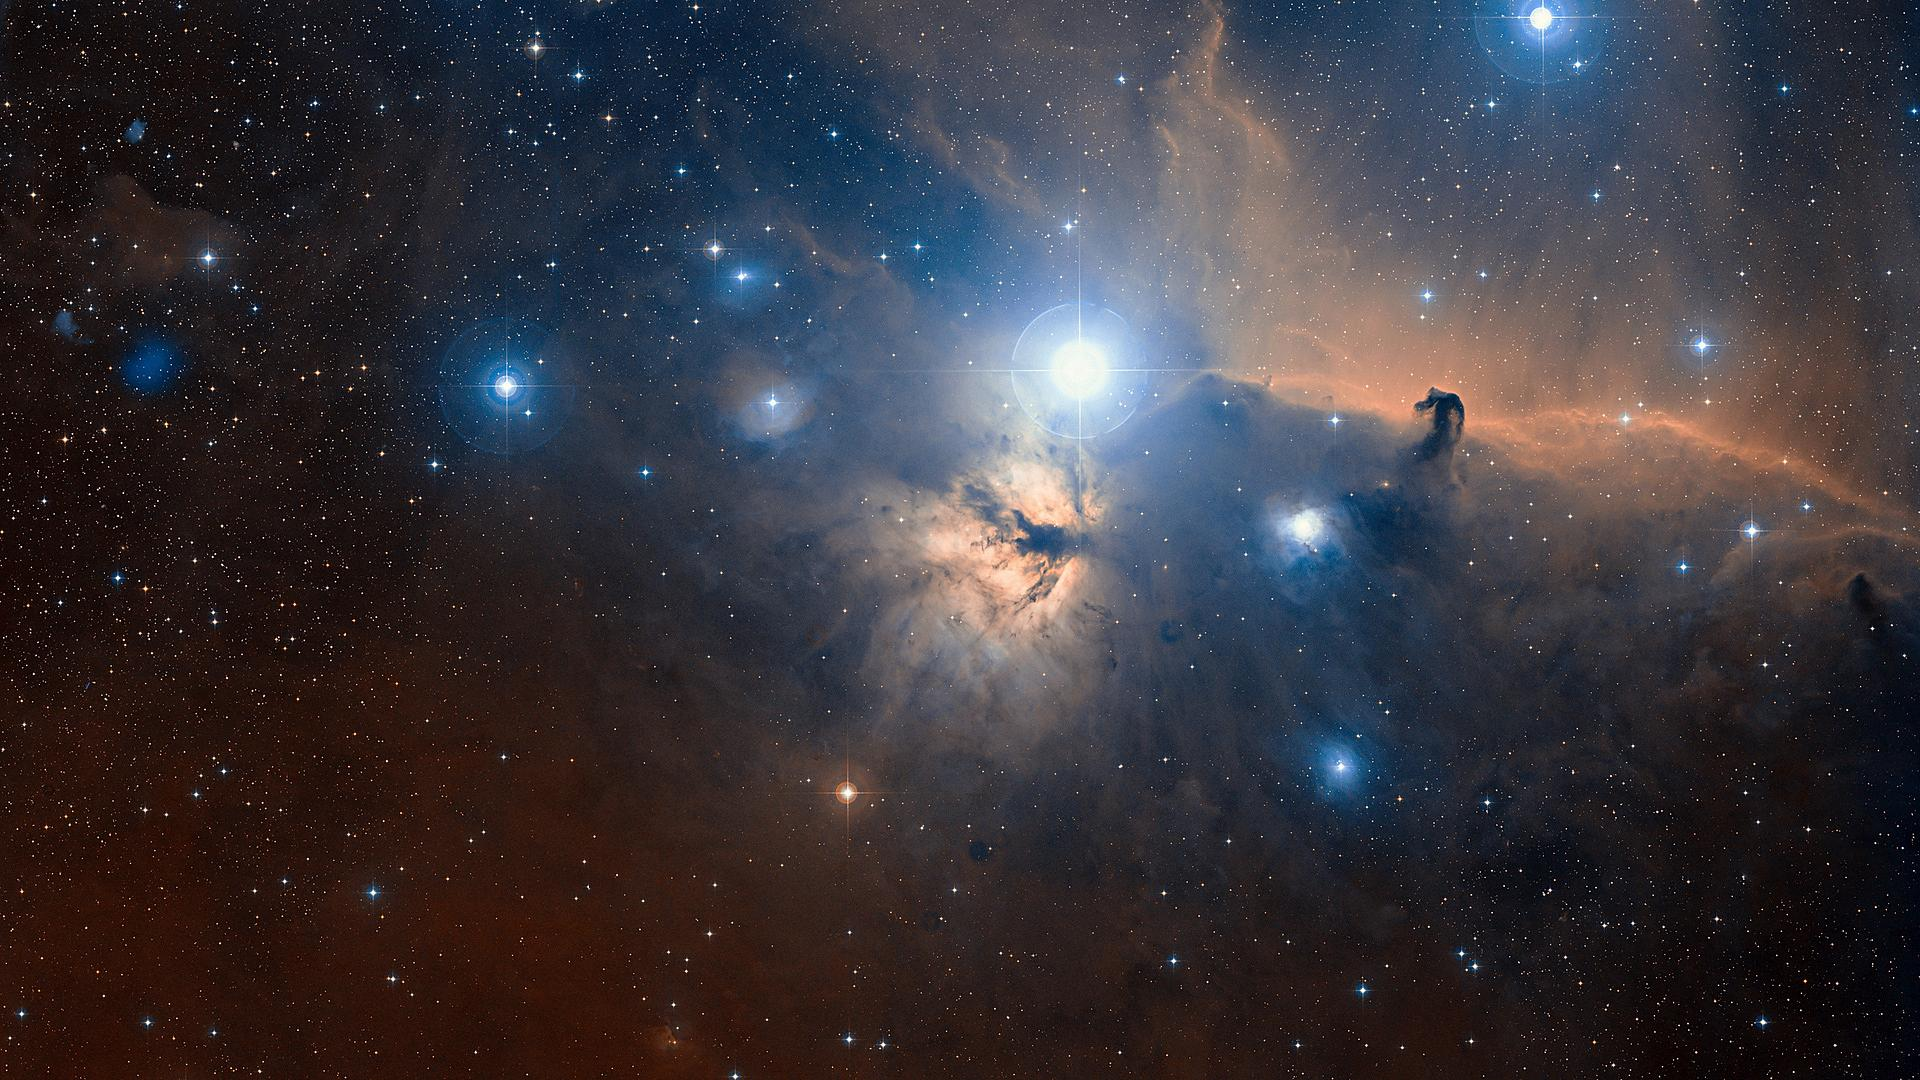
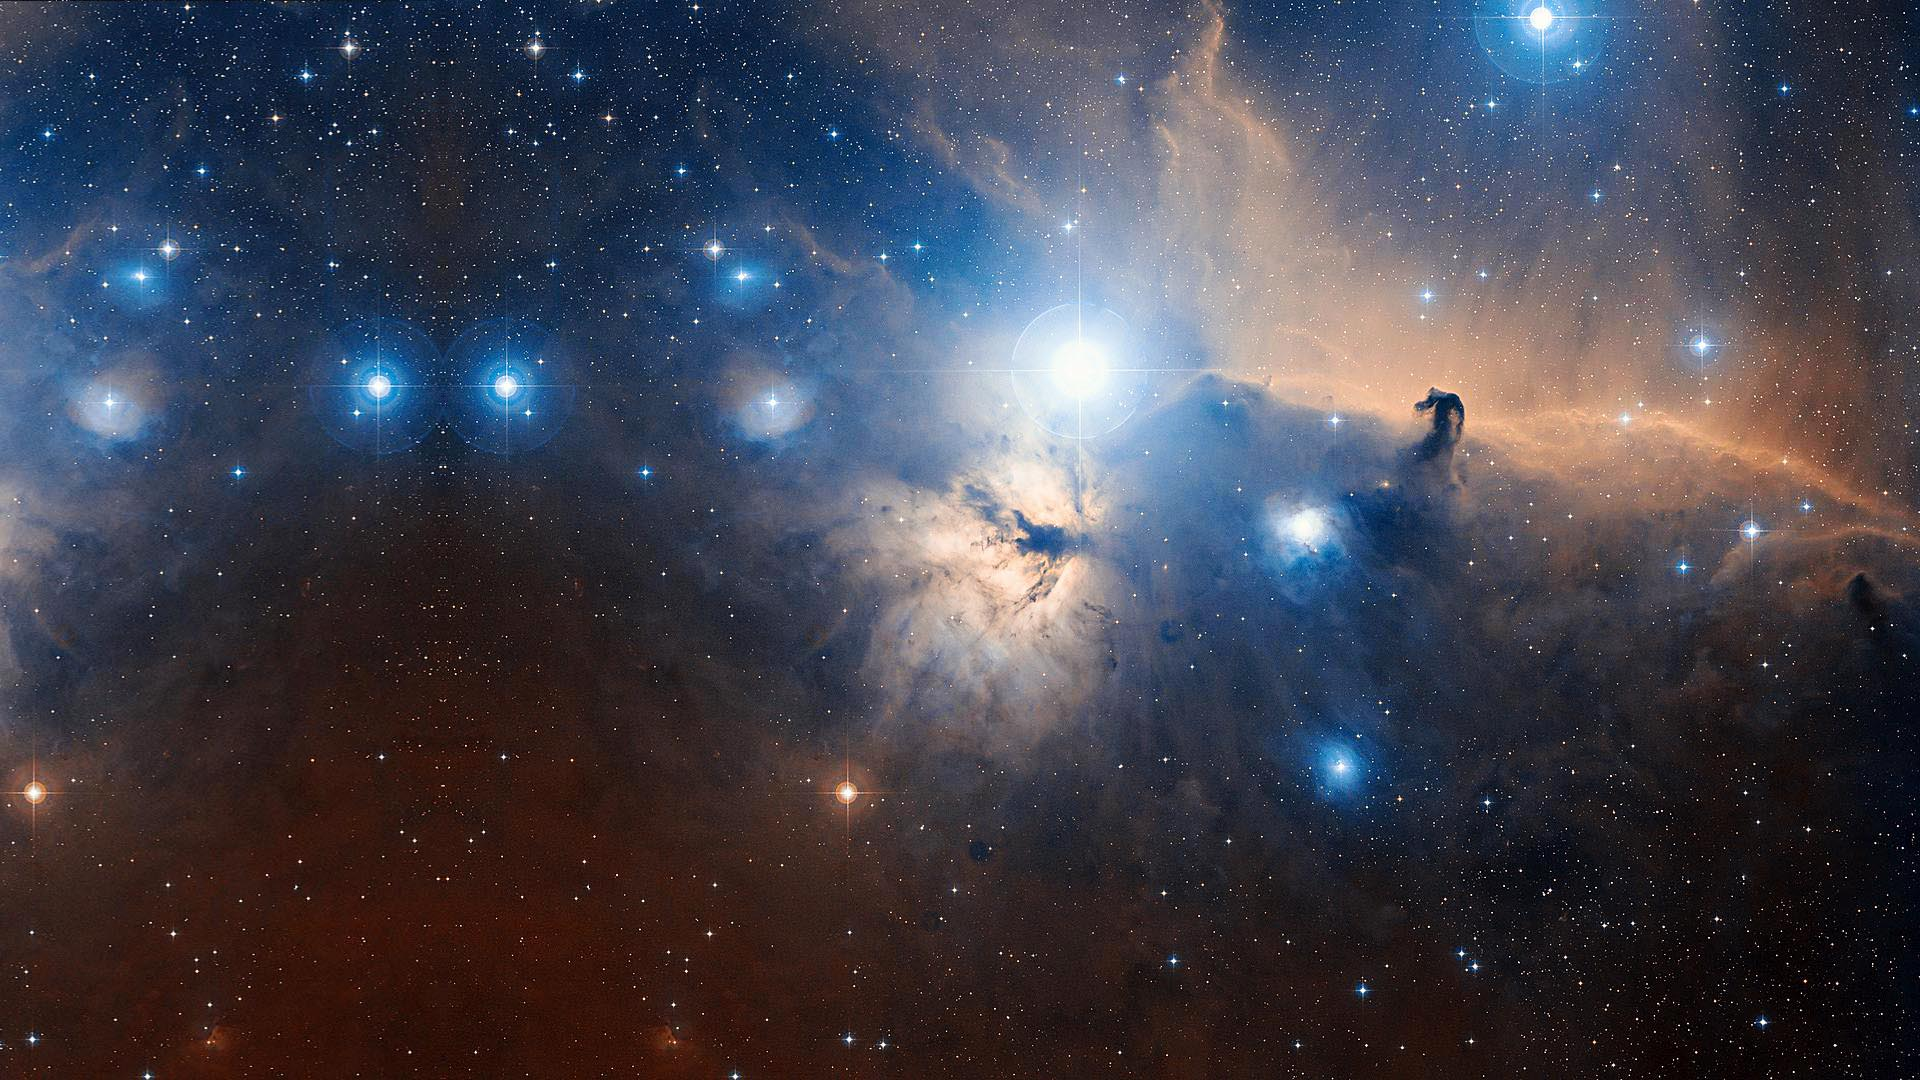
update

diff --git a/css/style.css b/css/style.css
@@ -1,7 +1,7 @@
 /*
 *By GaoHR
 */
-body {background-color:#fff;overflow-x:hidden;background-image:url('http://gaohr.win/img/bg-03.jpg');background-size:100%;}
+body {background-color:#fff;overflow-x:hidden;background-image:url('http://gaohr.win/img/bg-02.jpg');background-size:100%;background-attachment: fixed;}
 hr {margin-top:5px;margin-bottom:15px}
 a {color:#08e}
 a:hover {color:#f65;-webkit-transition: all 0.3s ease;transition: all 0.3s ease;text-decoration: none;}
@@ -108,14 +108,14 @@ a:hover {color:#f65;-webkit-transition: all 0.3s ease;transition: all 0.3s ease;
 
 .mywarning {font-size:1.2em;color:#d85546;font-family:'Times New Roman'}
 
-.advertisement {position:fixed;bottom:10px;right:10px;width:360px;height:120px;color:#ccc;background:rgba(25,25,25,0.9);padding:10px;box-shadow:2px 2px 5px #555;display:none}
+.advertisement {position:fixed;bottom:10px;right:10px;width:360px;height:120px;color:#ccc;background:rgba(25,25,25,0.9);padding:10px;display:none}
 .advertisement .ad-title {border-bottom:1px solid #ccc;padding:5px;font-size:1.1em}
 .advertisement .ad-content {padding:5px}
 .advertisement .ad-content a{color:#fd8}
 .advertisement .ad-close span:before {content:"X"}
 .advertisement .ad-close {color:#555;float:right;font-size:1.1em;background:rgba(255,255,255,1);border-radius:50%;padding:0 8px}
 
-.greatChina {position:fixed;bottom:10px;right:10px;width:180px;color:#ccc;background:rgba(25,25,25,0.75);padding:10px;box-shadow:2px 2px 5px #555;display:none}
+.greatChina {position:fixed;bottom:10px;right:10px;width:180px;color:#ccc;background:rgba(25,25,25,0.75);padding:10px;display:none}
 .greatChina .ad-close span:before {content:"X"}
 .greatChina .ad-close {color:#555;float:right;font-size:1.1em;background:rgba(255,255,255,1);border-radius:50%;padding:0 8px}
 .flagimg {position:fixed;top:0px;left:30%;width:70px;z-index:9999}

diff --git a/css/menu.css b/css/menu.css
@@ -79,6 +79,7 @@
 
 /* 滚动监听，侧边菜单 */
 .centerer-menu-2 {position:fixed;top:15%;left:4%;width:10%;text-align:center;display:none;}
+.centerer-menu-2 i {color:#fff !important}
 .centerer-menu-2 a {width:60%;color:#39e;}
 .centerer-menu-2 a:hover {color:#f65}
 
